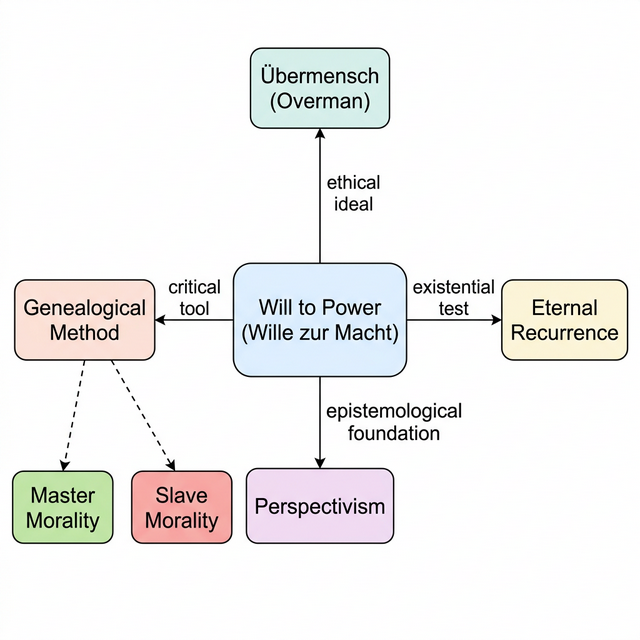
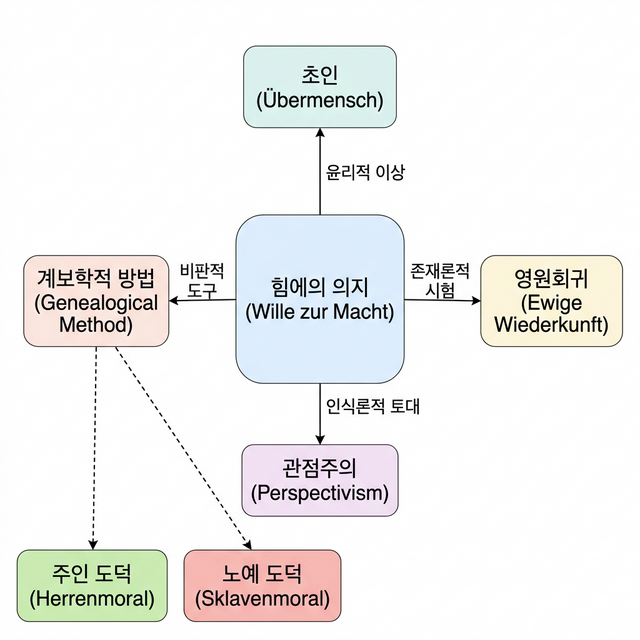
fix: 다이어그램 한글 라벨 규칙 추가 + 니체 논문 개념도 한글 교체

Changed region(s): [[0.0, 0.25, 1.0, 0.9688], [0.375, 0.0625, 0.625, 0.2188], [0.2188, 0.625, 0.25, 0.6562]]

diff --git a/.agents/workflows/research-simulate.md b/.agents/workflows/research-simulate.md
@@ -221,6 +221,9 @@ PaperBanana 에이전트 방법론으로 학회 수준 다이어그램 생성:
 - 폰트: 라벨=산세리프(Arial), 수식=세리프(Times) — 절대 혼용 금지
 - 아이콘: 🔥학습중, ❄프로즌, 🔍검사, ⚙연산
 - 금지: 네온 색상, 검은 배경, PowerPoint 기본 스타일, 혼합 폰트
+- **라벨 언어:** 논문 언어와 동일 (한국어 논문 → 한국어 라벨 + 괄호 안 영어 원어)
+  - 예: "힘에의 의지 (Wille zur Macht)", "영원회귀 (Eternal Recurrence)"
+  - 화살표 라벨도 한국어: "윤리적 이상", "존재론적 시험" 등
 
 **Visualizer:** generate_image 도구로 이미지 생성
 
